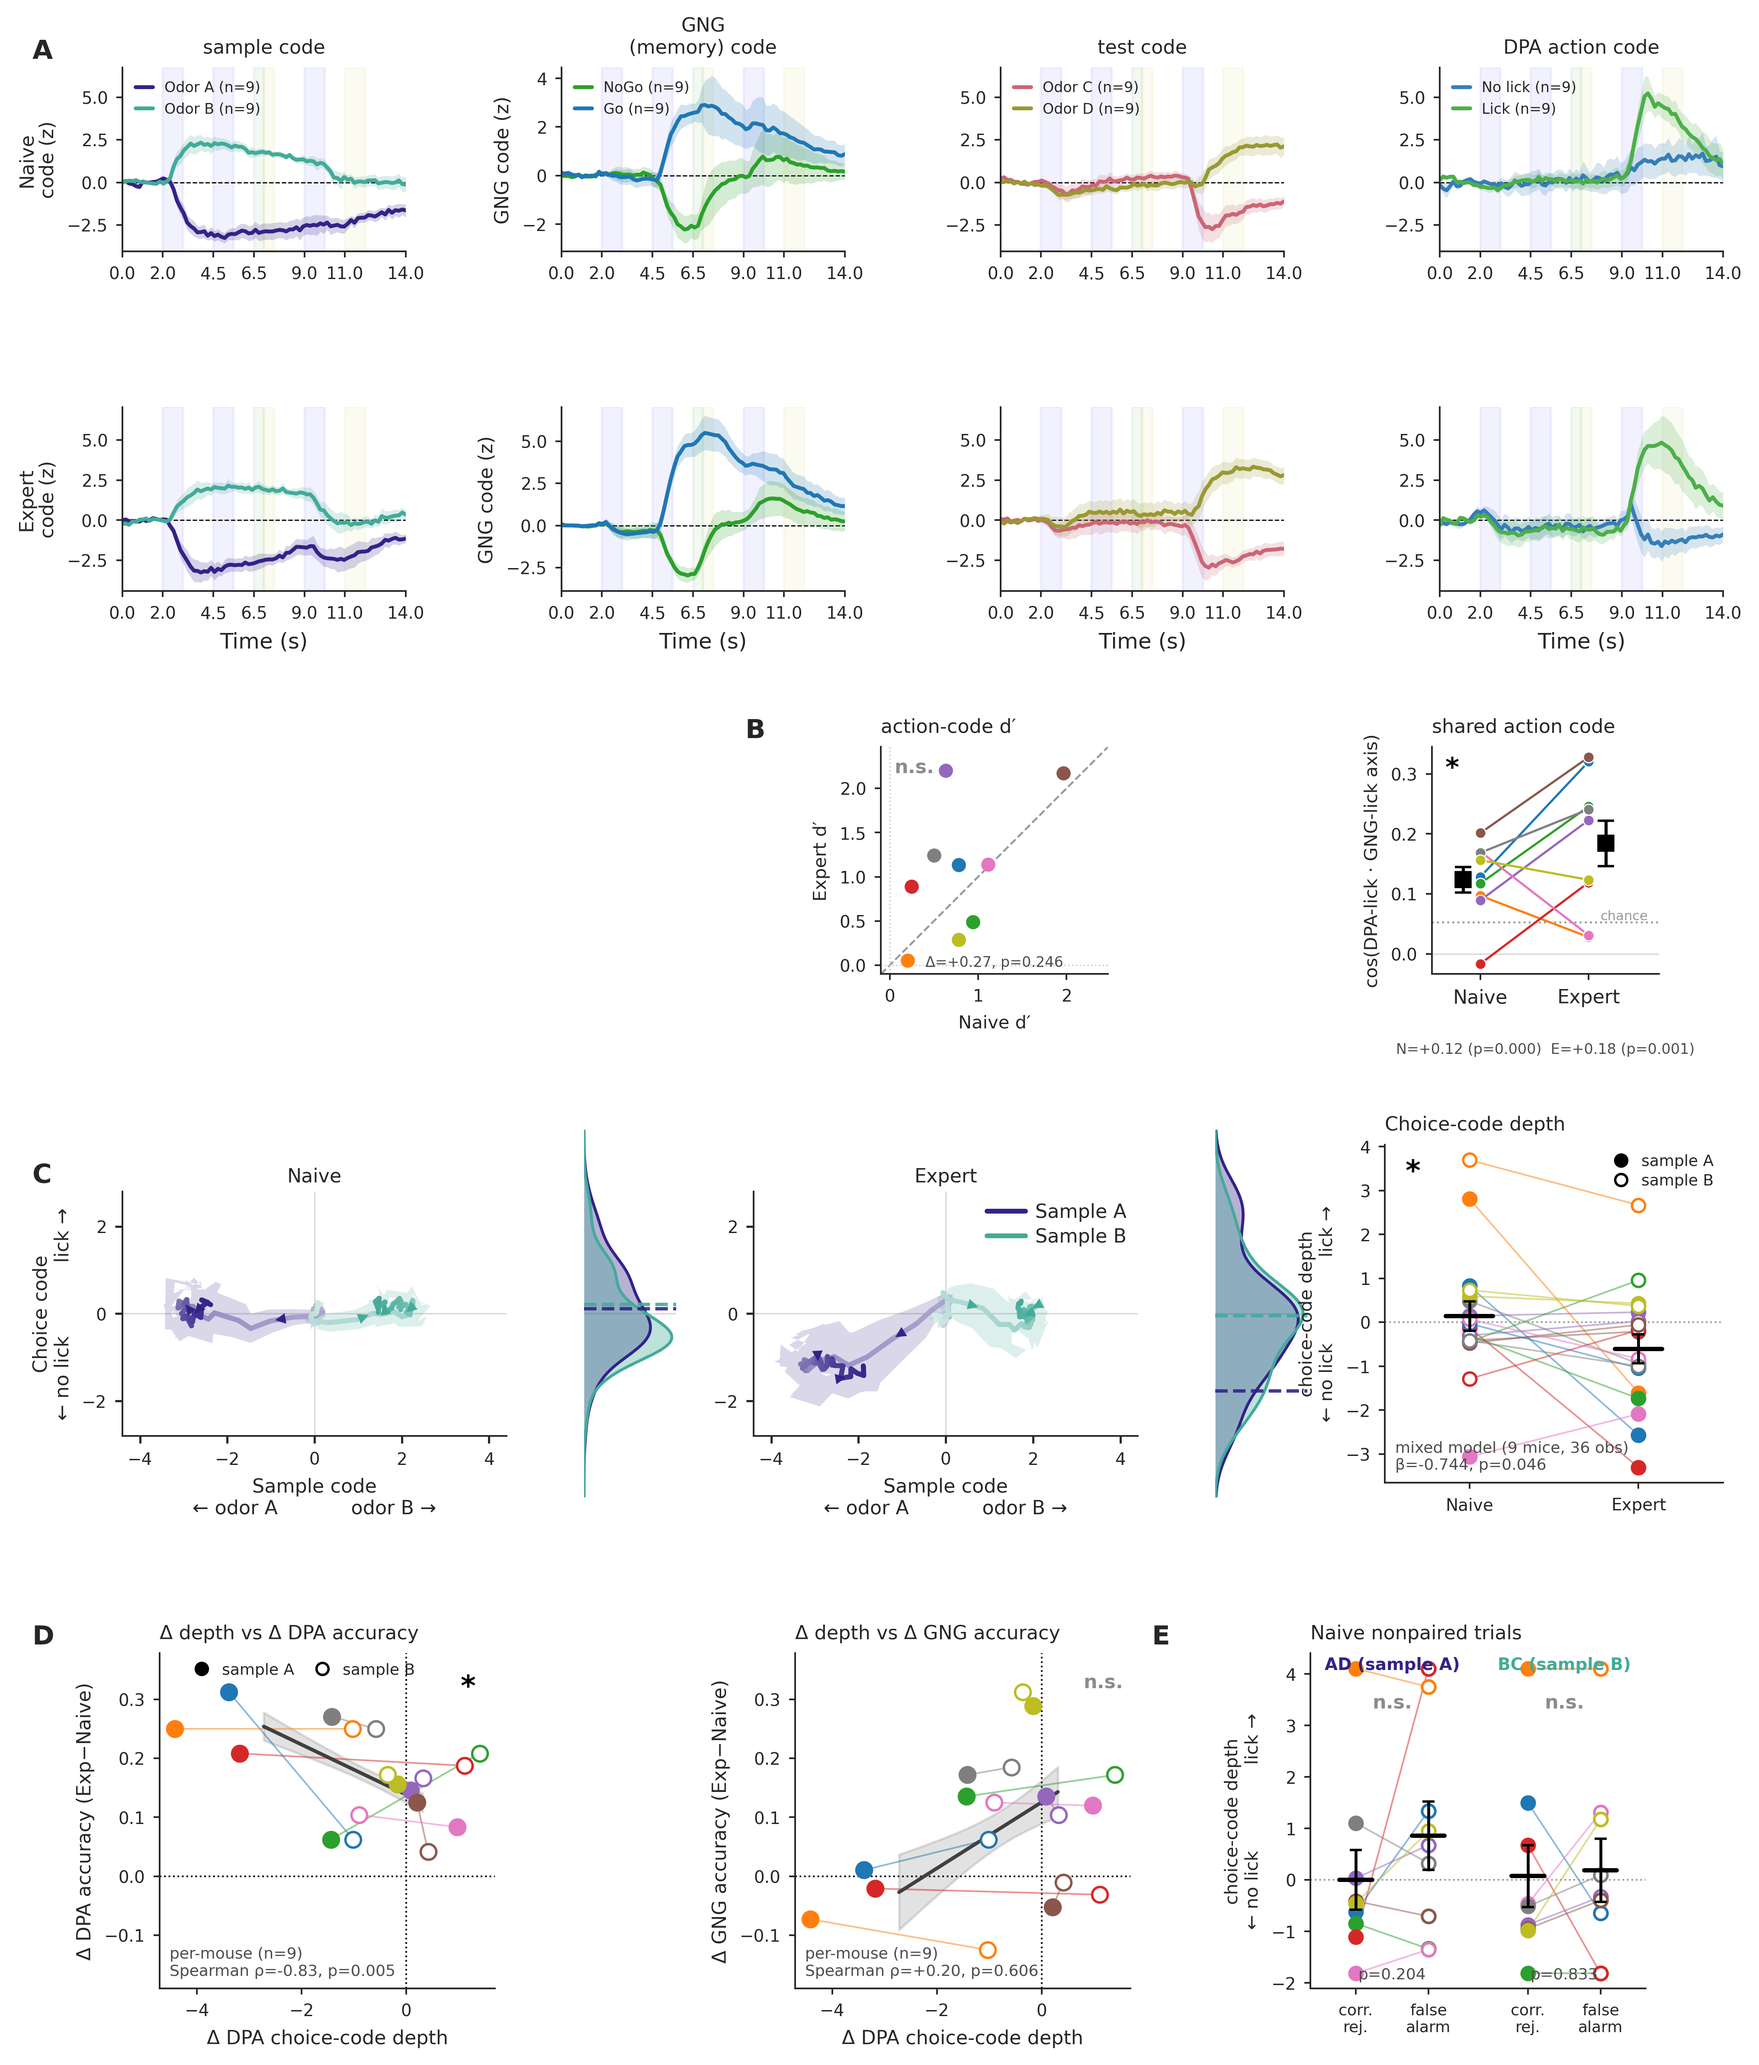
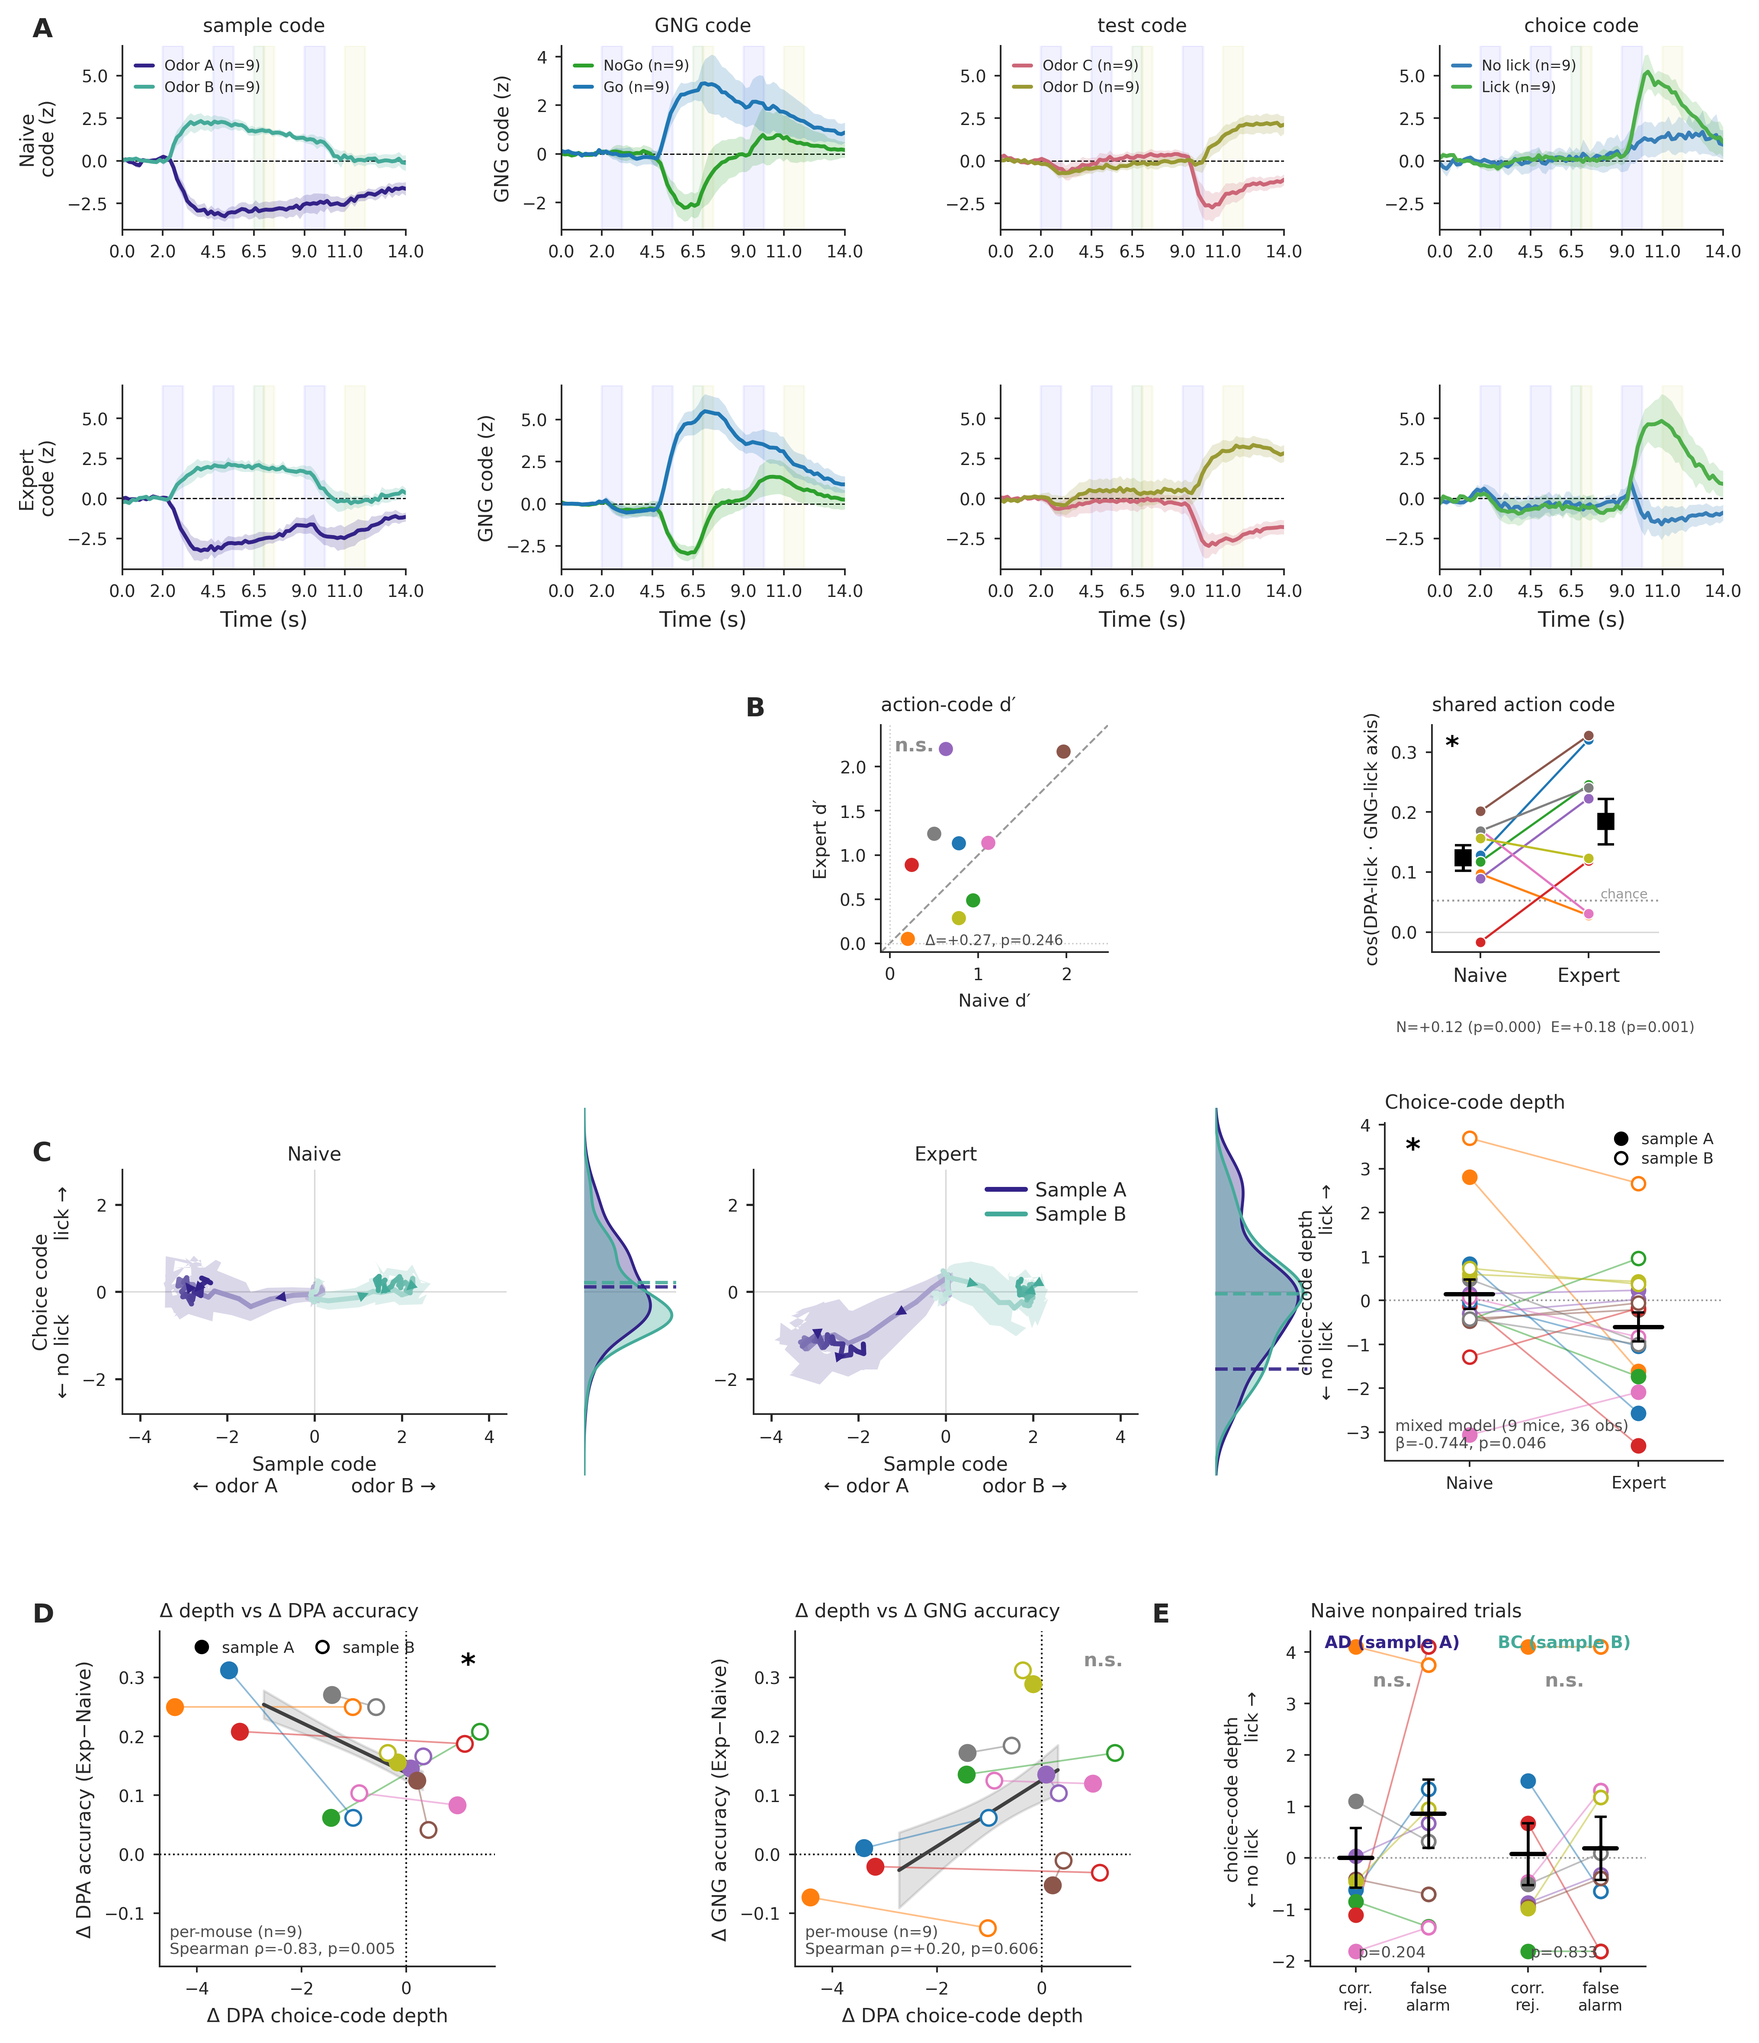
overlaps: rename panel-A codes — "GNG (memory)"->"GNG", "DPA action"->"choice"
Panel-A titles are now sample code / GNG code / test code / choice code, in
the main figure and the Go/NoGo supplement. "choice" is parallel with the other
columns (title=decoded variable, legend=conditions) and consistent with panels
C/D/E ("Choice code" / "choice-code depth"). Panel B keeps its "action"
terminology (B2 "shared action code" = the shared lick command). Regenerated
default + --cv10 + supplement PNGs.

diff --git a/overlaps/fig_overlaps_main_native.py b/overlaps/fig_overlaps_main_native.py
@@ -3,9 +3,11 @@ fig_overlaps_main_native.py — the overlaps MAIN paper figure (A&B-independent 
 variant), COMPOSED NATIVELY as one matplotlib gridspec, Nature-Neuroscience-styled.
 
 Layout (5-row gridspec, print-scale typography ~7 pt) — panels A B C D E:
-  A  1-D codes over the trial, Naive (top) vs Expert (bottom) — sample / LICK(DPA action) / test / GNG.
-     The LICK column is the DPA lick contrast on the DPA ACTION axis (choice decoder @ bins 57–63 = last
-     0.5 s TEST + first 0.5 s CHOICE). GNG = MID-DELAY memory axis (Go/NoGo decoder @ bins_MD 33–38).
+  A  1-D codes over the trial, Naive (top) vs Expert (bottom) — sample / GNG / test / choice.
+     Titles: "sample code", "GNG code", "test code", "choice code". The choice column is the DPA lick
+     contrast on the DPA ACTION axis (choice decoder @ bins 57–63 = last 0.5 s TEST + first 0.5 s CHOICE).
+     GNG = Go/NoGo decoder @ bins_MD (33–38), own y-scale (col 1). (Titles renamed 2026-07-20:
+     "GNG (memory)"→"GNG", "DPA action"→"choice".)
   B  the DPA action/lick code, two compact panels right of A: (B1) action-code d′ (lick vs no-lick @
      57–63), Naive x vs Expert y — decodable and ~UNCHANGED with learning (near unity), so C's effect is
      a POSITION shift not a decodability change; (B2) shared action code = cos(DPA-lick axis @57–63,
@@ -234,7 +236,7 @@ LICK_D   = _norm_code(LICK_R,   Y_LCK, 'choice',      1, 'DPA')        # DPA act
 GNG_D    = _norm_code(GNG_R,    Y_GNG, 'gng',         1, 'Dual')
 
 # lick-axis aliases used by B/C/D/E (the DPA action / lick code drives the push + depth panels)
-LICK_Y, Lm, LICK_TGT, LICK_TITLE = Y_LCK, Y_LCK, 'choice', ('DPA decision' if TESTWIN else 'DPA action')
+LICK_Y, Lm, LICK_TGT, LICK_TITLE = Y_LCK, Y_LCK, 'choice', 'choice'   # panel-A title = "choice code" (the DPA lick/no-lick decision axis)
 lick_depth = LICK_D[:, BINS_LATE].mean(1)
 L_laser = (Lm.laser == 0); L_tgt = (Lm.target == 'choice')
 L_correct = L_laser & (Lm.performance == 1) & (Lm.tasks == 'DPA')
@@ -464,7 +466,7 @@ VARS_A = [
     (LICK_TITLE, LICK_D, Lm, 'choice', [0, 1], ['No lick', 'Lick'], ['#377eb8', '#4daf4a'], 'DPA'),
     ('test',   TEST_D,   Y_TST, 'test_odor',   [0, 1], ['Odor C', 'Odor D'], ['#CC6677', '#999933'], 'DPA'),
 ]
-VAR_GNG = ('GNG\n(memory)', GNG_D, Y_GNG, 'gng', [0, 1], ['NoGo', 'Go'], ['#2ca02c', '#1f77b4'], 'Dual')
+VAR_GNG = ('GNG', GNG_D, Y_GNG, 'gng', [0, 1], ['NoGo', 'Go'], ['#2ca02c', '#1f77b4'], 'Dual')
 
 
 def _setup_A(ax, ylab):

diff --git a/overlaps/fig_overlaps_codes_gng_supp.py b/overlaps/fig_overlaps_codes_gng_supp.py
@@ -70,9 +70,9 @@ GNG_D = _norm_code(GNG_R, Y_GNG, 'gng', 1, 'Dual')
 # column order: sample, GNG, test, DPA-action.  spec = (title, D, YY, split_col, levels, labs, colours)
 SPECS = [
     ('sample',        SAMPLE_D, Y_SAM, 'sample_odor', [0, 1], ['Odor A', 'Odor B'], ['#332288', '#44AA99']),
-    ('GNG\n(memory)', GNG_D,    Y_GNG, 'gng',         [0, 1], ['NoGo', 'Go'],       ['#2ca02c', '#1f77b4']),
+    ('GNG',           GNG_D,    Y_GNG, 'gng',         [0, 1], ['NoGo', 'Go'],       ['#2ca02c', '#1f77b4']),
     ('test',          TEST_D,   Y_TST, 'test_odor',   [0, 1], ['Odor C', 'Odor D'], ['#CC6677', '#999933']),
-    ('DPA action',    LICK_D,   Y_LCK, 'choice',      [0, 1], ['No lick', 'Lick'],  ['#377eb8', '#4daf4a']),
+    ('choice',        LICK_D,   Y_LCK, 'choice',      [0, 1], ['No lick', 'Lick'],  ['#377eb8', '#4daf4a']),
 ]
 PANELS = [('A', 'Go trials', 'DualGo'), ('B', 'NoGo trials', 'DualNoGo')]
 
